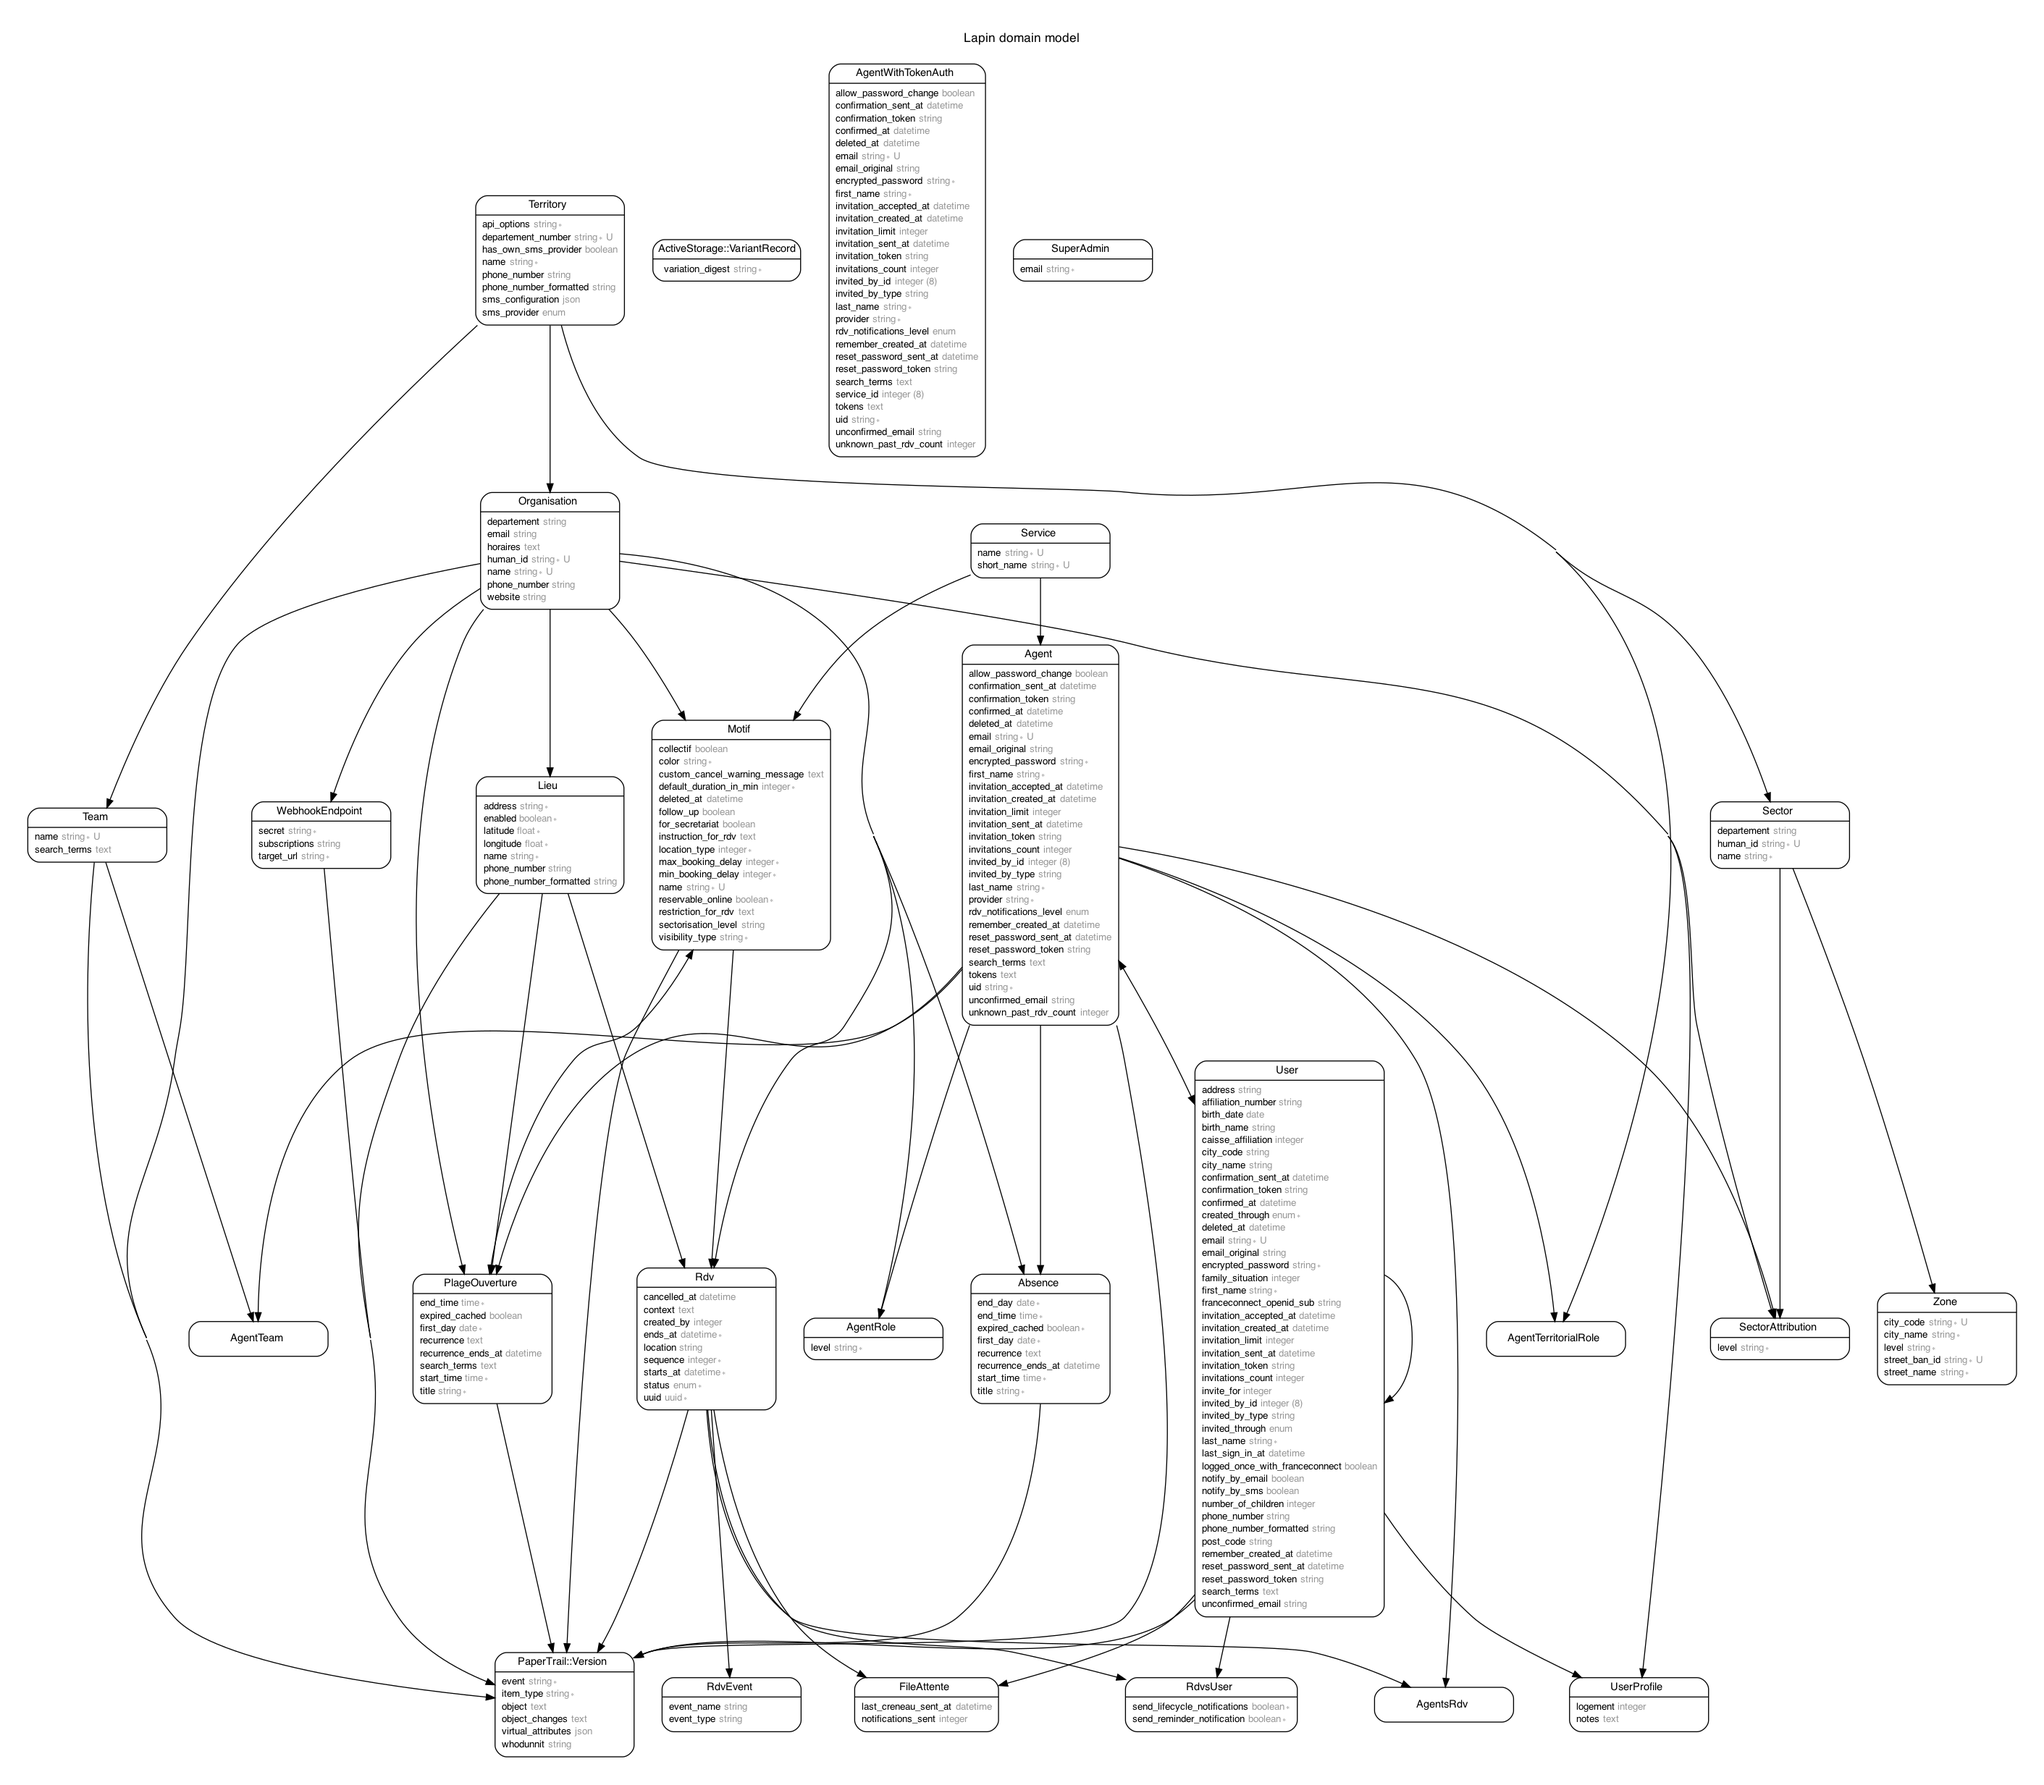
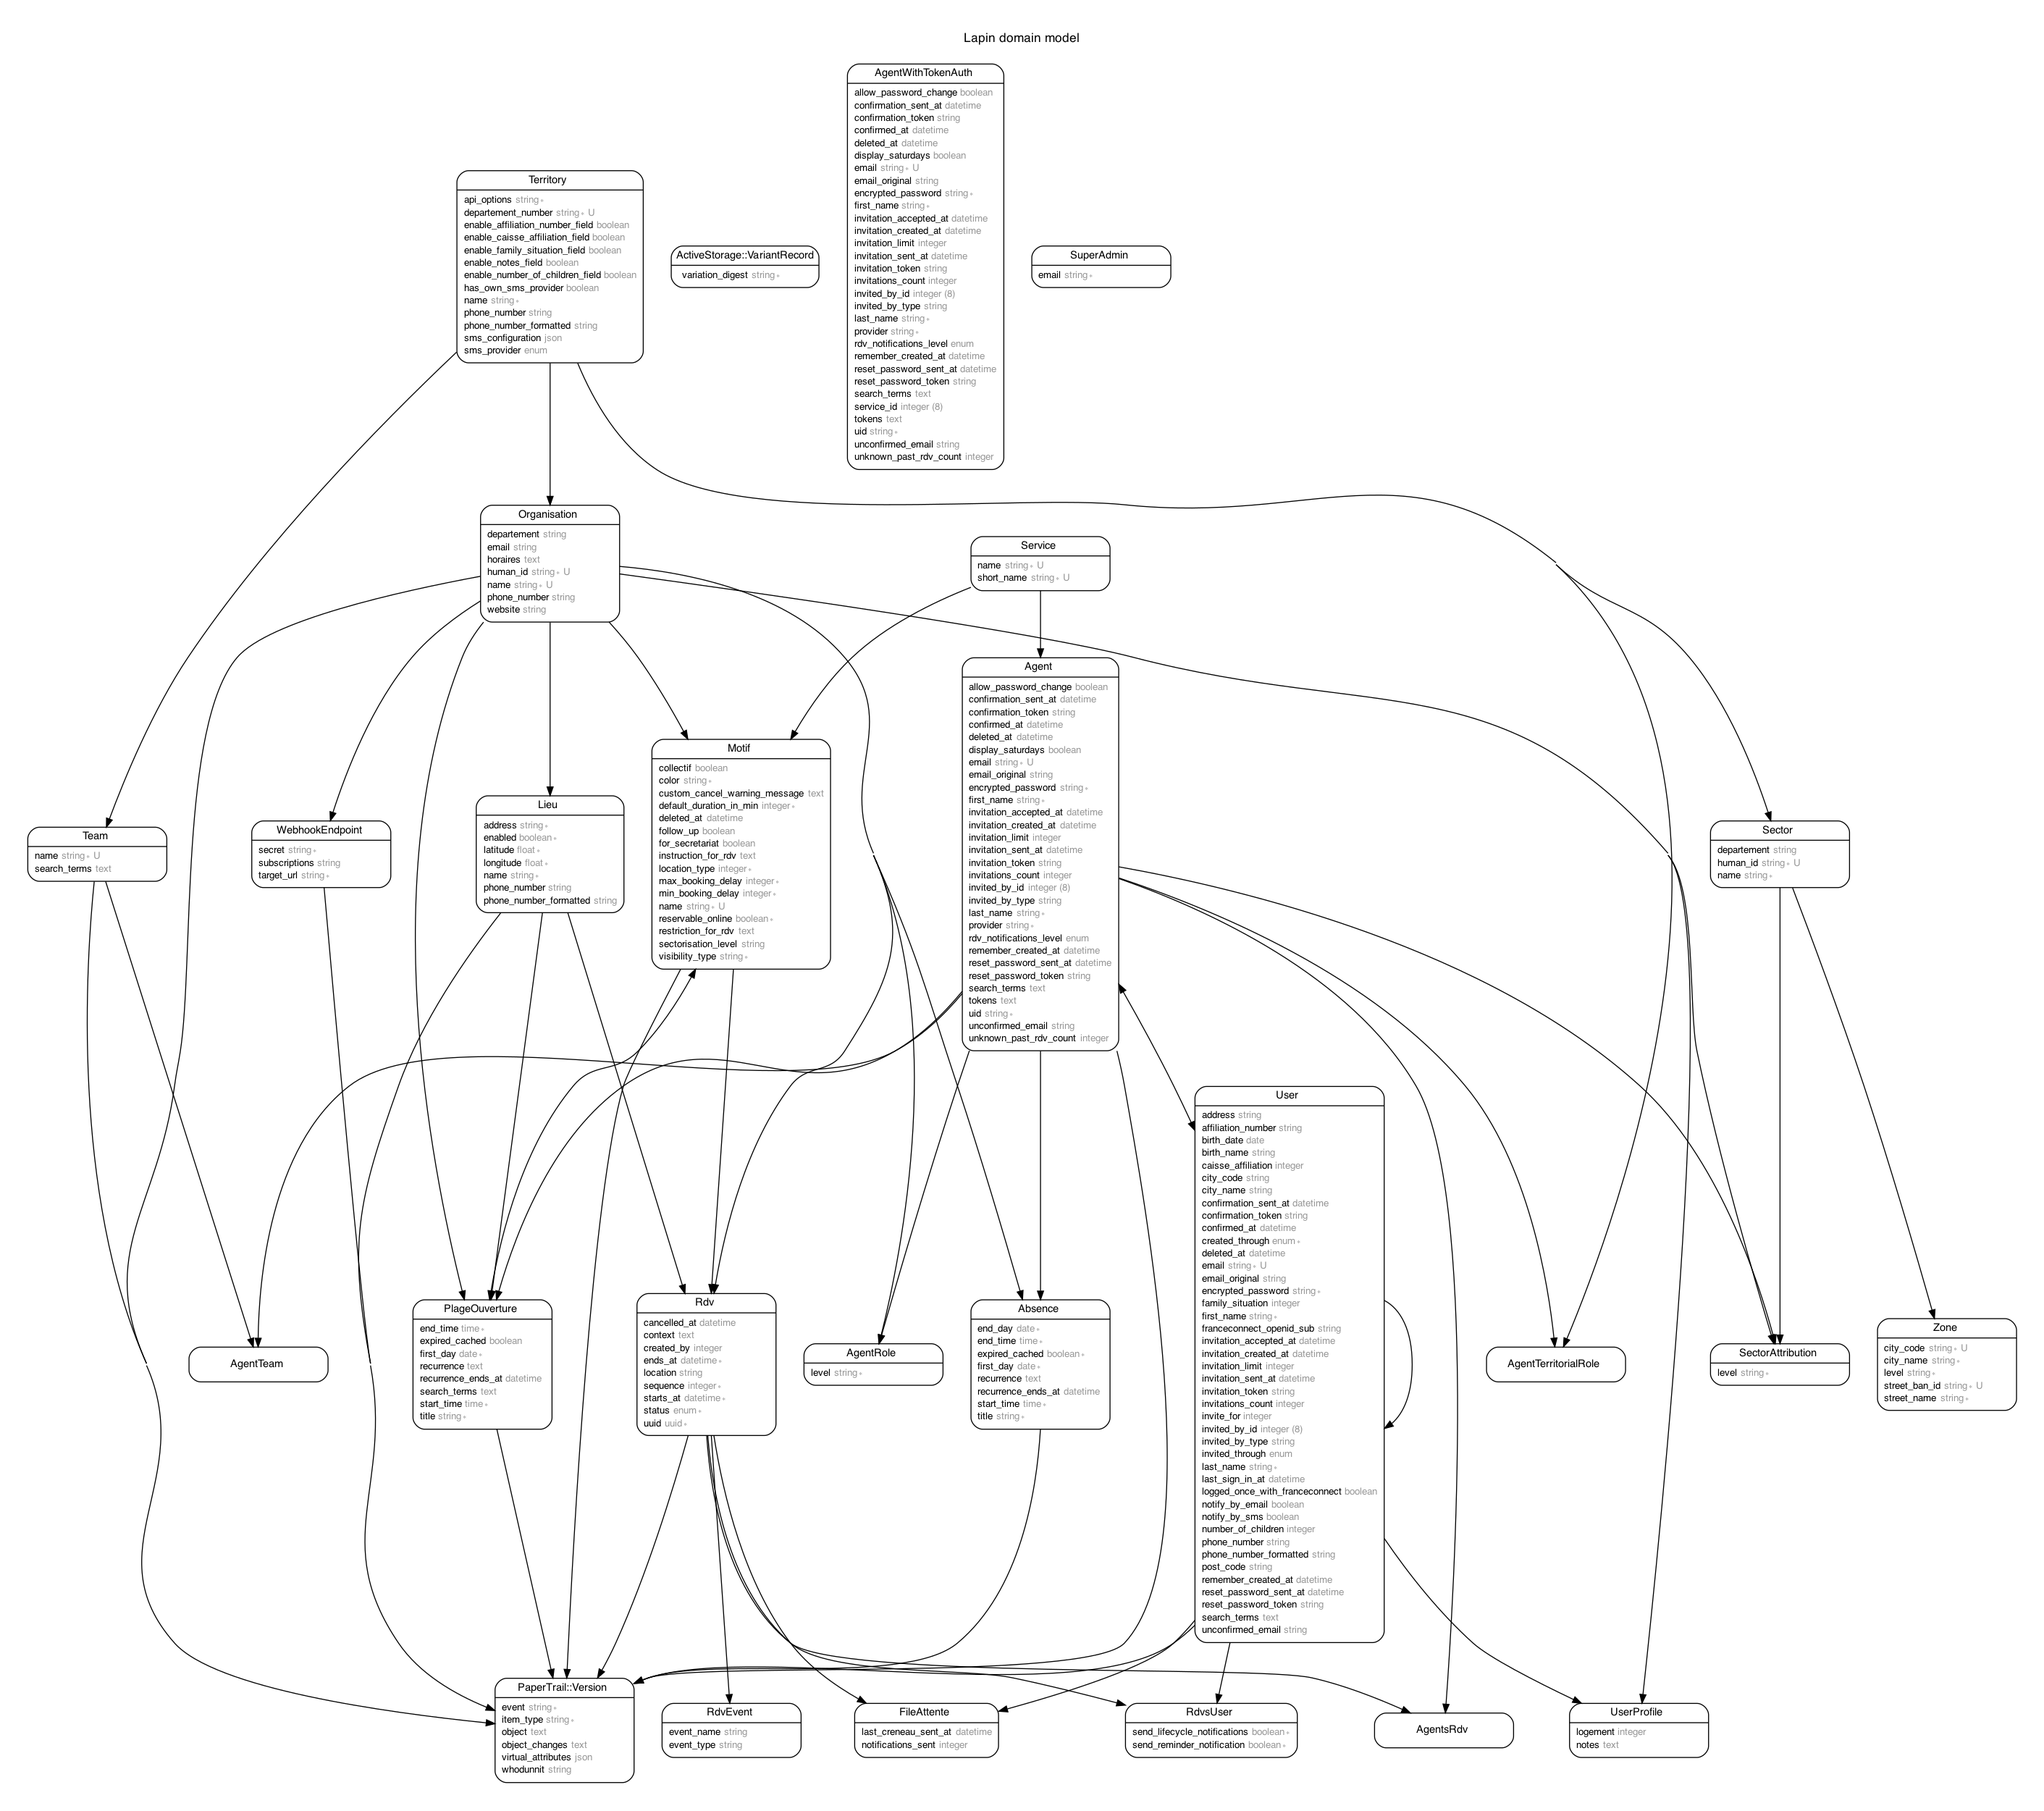
Add toggle to display saturdays in agenda

diff --git a/app/webpacker/components/calendar.js b/app/webpacker/components/calendar.js
@@ -66,7 +66,7 @@ class CalendarRdvSolidarites {
       viewSkeletonRender: function (info) {
         localStorage.setItem("calendarDefaultView", info.view.type);
       },
-      weekends: false,
+      hiddenDays: this.data.displaySaturdays === "true" ? [0] : [6, 0],
       height: "auto",
       selectable: true,
       select: this.selectEvent,
@@ -82,7 +82,7 @@ class CalendarRdvSolidarites {
       },
       businessHours: {
         // days of week. an array of zero-based day of week integers (0=Sunday)
-        daysOfWeek: [1, 2, 3, 4, 5],
+        daysOfWeek: [1, 2, 3, 4, 5, 6],
         startTime: '07:00',
         endTime: '19:00',
       },

diff --git a/spec/controllers/admin/agent_agendas_controller_spec.rb b/spec/controllers/admin/agent_agendas_controller_spec.rb
@@ -18,4 +18,29 @@ describe Admin::AgentAgendasController, type: :controller do
     it { expect(assigns(:selected_event_id)).to be_nil }
     it { expect(assigns(:date)).to be_nil }
   end
+
+  describe "#toggle_display_saturdays" do
+    subject do
+      put :toggle_display_saturdays, params: { id: agent.id, organisation_id: organisation.id, agent: { display_saturdays: true } }
+    end
+
+    it "changes the display of saturdays for the current agent" do
+      expect { subject }.to change { agent.reload.display_saturdays }.to true
+      expect(response).to redirect_to(admin_organisation_agent_agenda_path)
+    end
+
+    context "when showing another agent's calendar" do
+      subject do
+        put :toggle_display_saturdays, params: { id: other_agent.id, organisation_id: organisation.id, agent: { display_saturdays: true } }
+      end
+
+      let(:other_agent) { create(:agent, organisations: [organisation]) }
+
+      # The option to display or hide saturdays applies to all the calendars that the agent sees, not just their own.
+      # But it only applies to themselves, they can't change what another agent can do.
+      it "changes the display for the current agent, not the other one" do
+        expect { subject }.to change { agent.reload.display_saturdays }.to true
+      end
+    end
+  end
 end

diff --git a/db/schema.rb b/db/schema.rb
@@ -10,7 +10,7 @@
 #
 # It's strongly recommended that you check this file into your version control system.
 
-ActiveRecord::Schema.define(version: 2022_02_17_140221) do
+ActiveRecord::Schema.define(version: 2022_02_24_141713) do
 
   # These are extensions that must be enabled in order to support this database
   enable_extension "plpgsql"
@@ -165,6 +165,7 @@ ActiveRecord::Schema.define(version: 2022_02_17_140221) do
     t.enum "rdv_notifications_level", default: "soon", enum_type: "agents_rdv_notifications_level"
     t.text "search_terms"
     t.integer "unknown_past_rdv_count", default: 0
+    t.boolean "display_saturdays", default: false
     t.index "to_tsvector('simple'::regconfig, COALESCE(search_terms, ''::text))", name: "index_agents_search_terms", using: :gin
     t.index ["confirmation_token"], name: "index_agents_on_confirmation_token", unique: true
     t.index ["email"], name: "index_agents_on_email", unique: true

diff --git a/app/policies/agent/agent_policy.rb b/app/policies/agent/agent_policy.rb
@@ -4,7 +4,11 @@ class Agent::AgentPolicy < ApplicationPolicy
   include CurrentAgentInPolicyConcern
 
   def current_agent_or_admin_in_record_organisation?
-    record == current_agent || admin_in_record_organisation?
+    current_agent? || admin_in_record_organisation?
+  end
+
+  def current_agent?
+    record == current_agent
   end
 
   def admin_in_record_organisation?
@@ -22,6 +26,7 @@ class Agent::AgentPolicy < ApplicationPolicy
   alias rdvs? current_agent_or_admin_in_record_organisation?
   alias reinvite? current_agent_or_admin_in_record_organisation?
   alias versions? current_agent_or_admin_in_record_organisation?
+  alias toggle_display_saturdays? current_agent?
 
   def destroy?
     # Even admins cannot destroy themselves

diff --git a/app/controllers/admin/agent_agendas_controller.rb b/app/controllers/admin/agent_agendas_controller.rb
@@ -9,4 +9,17 @@ class Admin::AgentAgendasController < AgentAuthController
     @selected_event_id = params[:selected_event_id]
     @date = params[:date].present? ? Date.parse(params[:date]) : nil
   end
+
+  def toggle_display_saturdays
+    @agent = current_agent
+    authorize(@agent)
+    @agent.update!(agent_role_params)
+    redirect_to admin_organisation_agent_agenda_path(params.permit(:status, :selected_event_id, :date))
+  end
+
+  private
+
+  def agent_role_params
+    params.require(:agent).permit(:display_saturdays)
+  end
 end

diff --git a/config/routes.rb b/config/routes.rb
@@ -173,7 +173,9 @@ Rails.application.routes.draw do
         end
         resources :absences, except: %i[index show new]
         resources :agent_roles, only: %i[edit update]
-        resources :agent_agendas, only: [:show]
+        resources :agent_agendas, only: %i[show] do
+          put :toggle_display_saturdays, on: :member
+        end
         resources :agents, only: %i[index destroy] do
           collection do
             get :search

diff --git a/db/migrate/20220224141713_add_agents_display_saturdays.rb b/db/migrate/20220224141713_add_agents_display_saturdays.rb
@@ -1,0 +1,7 @@
+# frozen_string_literal: true
+
+class AddAgentsDisplaySaturdays < ActiveRecord::Migration[6.1]
+  def change
+    add_column :agents, :display_saturdays, :boolean, default: false
+  end
+end
